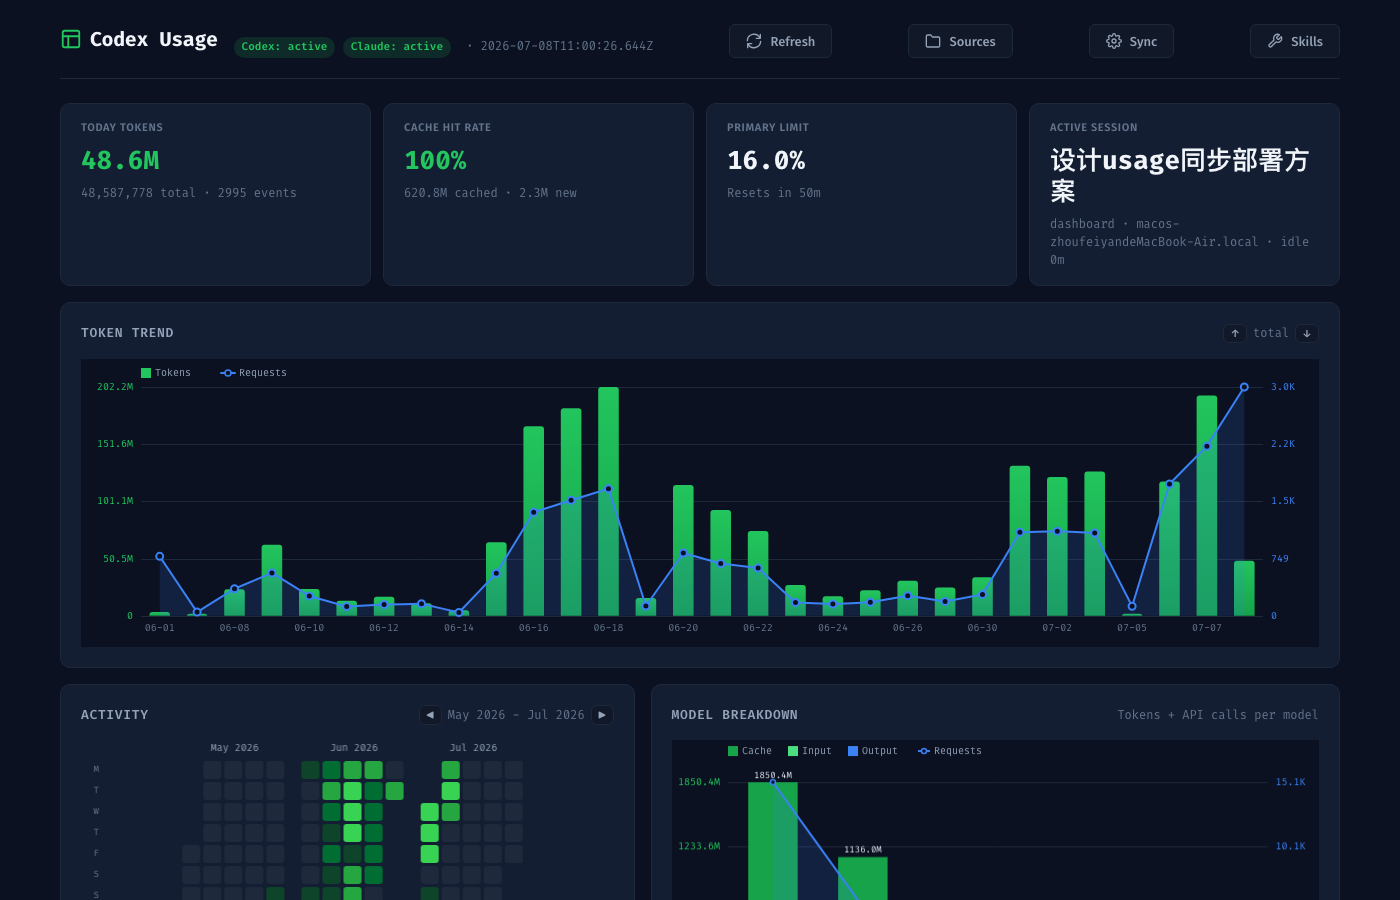
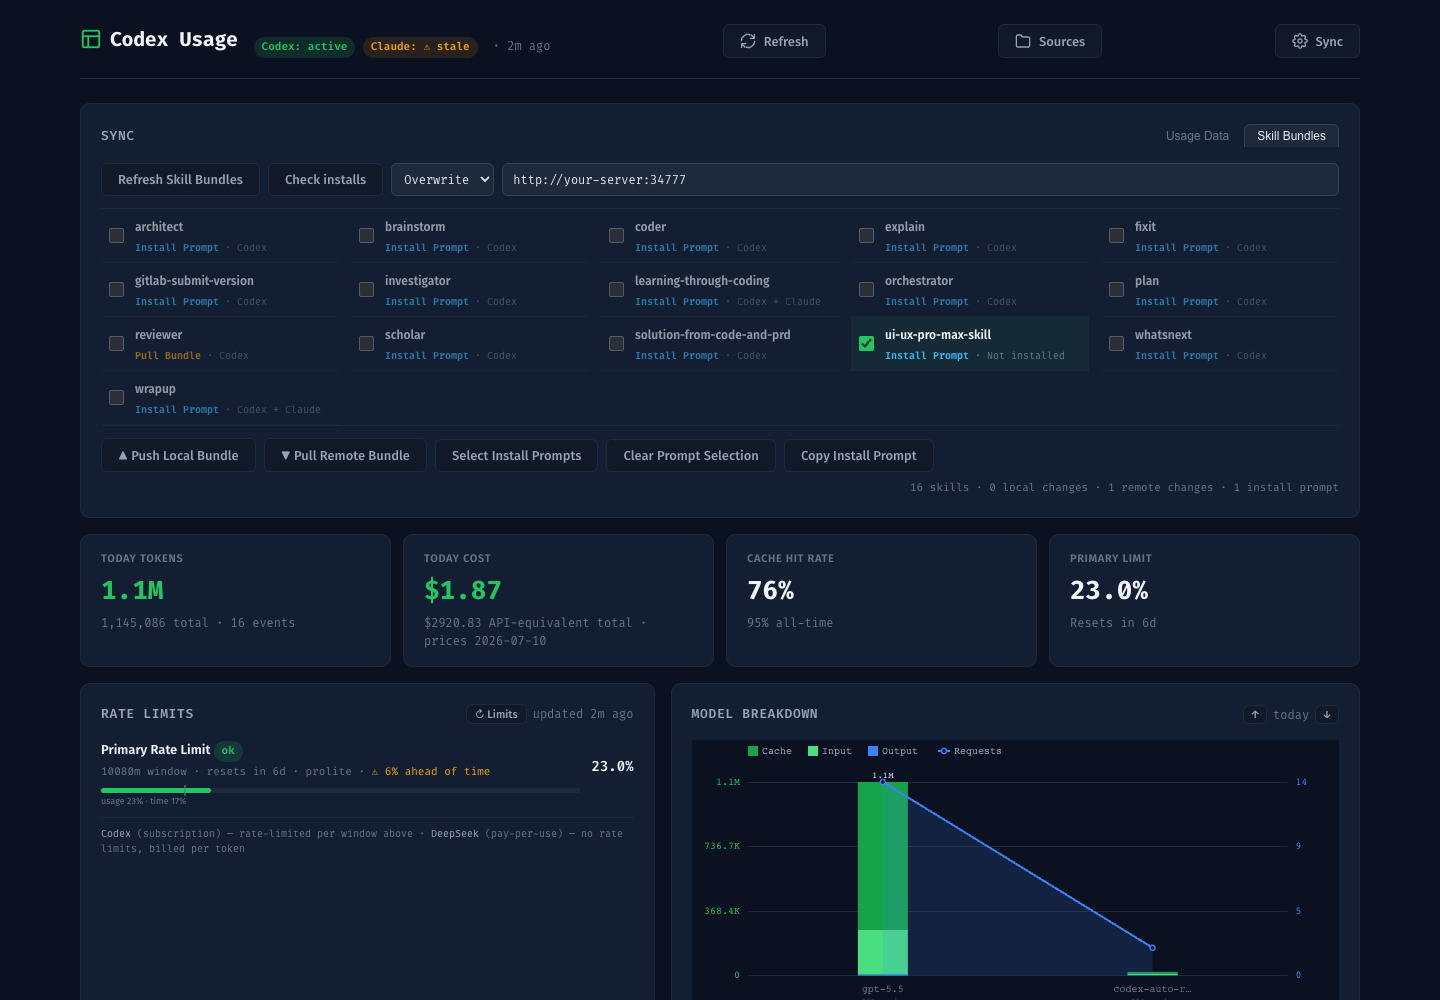
fix: refine skill bundle merge pull

diff --git a/test/skills-sync.test.js b/test/skills-sync.test.js
@@ -1,5 +1,5 @@
 import assert from "node:assert/strict";
-import { mkdtemp, mkdir, readFile, rm, writeFile } from "node:fs/promises";
+import { mkdtemp, mkdir, readFile, rm, stat, writeFile } from "node:fs/promises";
 import { tmpdir } from "node:os";
 import { join } from "node:path";
 import test from "node:test";
@@ -231,16 +231,27 @@ test("merge strategy writes bundle files without deleting local extras", async (
   t.after(() => rm(root, { recursive: true, force: true }));
   await mkdir(join(root, "common"), { recursive: true });
   await writeFile(join(root, "common", "old.md"), "# Old\n", "utf8");
+  await writeFile(join(root, "common", "same.md"), "# Same\n", "utf8");
+  const sameBefore = (await stat(join(root, "common", "same.md"))).mtimeMs;
 
   const plan = await planSkillBundleApply({
-    files: [{ path: "common/reviewer.md", content: "# Reviewer\n" }],
+    files: [
+      { path: "common/reviewer.md", content: "# Reviewer\n" },
+      { path: "common/same.md", content: "# Same\n" },
+    ],
   }, root, { strategy: "merge" });
 
   assert.equal(plan.summary.remove, 0);
+  assert.equal(plan.summary.add, 1);
+  assert.equal(plan.summary.unchanged, 1);
   await applySkillBundleToDir({
-    files: [{ path: "common/reviewer.md", content: "# Reviewer\n" }],
+    files: [
+      { path: "common/reviewer.md", content: "# Reviewer\n" },
+      { path: "common/same.md", content: "# Same\n" },
+    ],
   }, root, { strategy: "merge" });
 
   assert.equal(await readFile(join(root, "common", "old.md"), "utf8"), "# Old\n");
   assert.equal(await readFile(join(root, "common", "reviewer.md"), "utf8"), "# Reviewer\n");
+  assert.equal((await stat(join(root, "common", "same.md"))).mtimeMs, sameBefore);
 });

diff --git a/public/app.js b/public/app.js
@@ -1865,12 +1865,16 @@ function formatPlanSample(paths = [], max = 6) {
 
 function buildSkillPullConfirm(plan) {
   const summary = plan?.summary || {};
+  const strategy = plan?.strategy || "overwrite";
   const lines = [
-    `Apply remote skill bundle with ${plan?.strategy || "overwrite"} strategy?`,
-    `Add ${summary.add || 0}, update ${summary.update || 0}, remove ${summary.remove || 0}, unchanged ${summary.unchanged || 0}.`,
+    strategy === "merge"
+      ? "Merge remote skill bundle changes into the local source directory?"
+      : "Overwrite the local source directory with the remote skill bundle?",
+    `Add ${summary.add || 0}, overwrite ${summary.update || 0}, remove ${summary.remove || 0}, unchanged ${summary.unchanged || 0}.`,
   ];
+  if (summary.add) lines.push(`Add: ${formatPlanSample(plan.add || [])}`);
+  if (summary.update) lines.push(`Overwrite: ${formatPlanSample(plan.update || [])}`);
   if (summary.remove) lines.push(`Remove: ${formatPlanSample(plan.remove || [])}`);
-  if (summary.update) lines.push(`Update: ${formatPlanSample(plan.update || [])}`);
   lines.push("Continue?");
   return lines.join("\n");
 }
@@ -2081,9 +2085,13 @@ async function pullRemoteSkillBundle(serverUrl, strategy) {
   const preview = await previewRes.json();
   if (!preview.plan) throw new Error(preview.results?.find((r) => !r.ok)?.error || "Cannot preview skill pull");
   const summary = preview.plan.summary || {};
-  const needsConfirm = strategy === "overwrite" && ((summary.remove || 0) > 0 || (summary.update || 0) > 0);
+  const needsConfirm = (summary.add || 0) > 0 || (summary.update || 0) > 0 || (summary.remove || 0) > 0;
   if (needsConfirm && !window.confirm(buildSkillPullConfirm(preview.plan))) {
     $("skillSyncSummary").textContent = "Pull cancelled";
+    return false;
+  }
+  if (!needsConfirm) {
+    toast("Remote bundle already matches local source files", "success");
     return false;
   }
 

diff --git a/src/skills-sync.js b/src/skills-sync.js
@@ -346,9 +346,11 @@ export async function planSkillBundleApply(bundle, dirPath, options = {}) {
 export async function applySkillBundleToDir(bundle, dirPath, options = {}) {
   if (!bundle?.files || !Array.isArray(bundle.files)) throw new Error("Invalid skill bundle payload");
   const strategy = normalizeApplyStrategy(options.strategy);
+  const plan = await planSkillBundleApply(bundle, dirPath, { strategy });
   const expanded = expandHome(dirPath);
   await mkdir(expanded, { recursive: true });
   const incomingPaths = new Set(bundle.files.map((file) => safeBundlePath(file.path)));
+  const writePaths = new Set([...plan.add, ...plan.update]);
 
   async function removeOrphans(directory) {
     const entries = (await readdir(directory, { withFileTypes: true })).sort((a, b) => a.name.localeCompare(b.name));
@@ -368,6 +370,7 @@ export async function applySkillBundleToDir(bundle, dirPath, options = {}) {
   if (strategy === "overwrite") await removeOrphans(expanded);
   for (const file of bundle.files) {
     const relPath = safeBundlePath(file.path);
+    if (!writePaths.has(relPath)) continue;
     const destination = join(expanded, relPath);
     await mkdir(dirname(destination), { recursive: true });
     await writeFile(destination, String(file.content ?? "").trimEnd() + "\n", "utf8");

diff --git a/README.md b/README.md
@@ -217,7 +217,7 @@ node src/cli.js register --path ~/agent-skills --type skills --label "Shared Ski
 - 比较本地、远端和已安装的技能状态。
 - 使用 `Push Local Bundle` 将完整本地 skill source bundle 推送到远端。
 - 使用 `Pull Remote Bundle` 先读取完整远端 bundle、预览本地差异，再拉取到本地技能源目录。
-- Pull 支持 `Overwrite` / `Merge`：`Overwrite` 会让本地技能源目录匹配远端 bundle，执行前会预览新增、更新和删除；`Merge` 只写入远端 bundle 内文件并保留本地额外文件。
+- Pull 支持 `Overwrite` / `Merge`，两者执行前都会预览新增和覆盖项：`Merge` 只应用远端相对本地的新增/更新差异并保留本地额外文件；`Overwrite` 会让本地技能源目录匹配远端 bundle，因此还会预览并删除本地多出来的文件。
 - 勾选列表项只用于 `Copy Install Prompt`，让 Codex 按 `SKILL_BUNDLE.md` 规则安装或更新选中的本地技能；已安装的技能也可以勾选生成 prompt。
 
 ### Skill / Plugin 同步设计草案
@@ -226,8 +226,8 @@ node src/cli.js register --path ~/agent-skills --type skills --label "Shared Ski
 
 - **资源类型**：`Skill` 和 `Plugin` 分开选择、分开展示状态、分开执行同步。
 - **同步方向**：`Push` 和 `Pull` 都应显式选择方向，不把方向隐藏在同一个按钮里。
-- **应用策略**：Pull 已支持 `Merge` 和 `Overwrite`。`Merge` 表示保留目标端额外文件，只写入 bundle 内文件；`Overwrite` 表示目标端目录应与 bundle 精确匹配。
-- **确认边界**：Pull `Overwrite` 执行前会展示将新增、更新和删除的文件摘要，并要求确认。
+- **应用策略**：Pull 已支持 `Merge` 和 `Overwrite`。`Merge` 表示只应用远端新增/更新差异并保留目标端额外文件；`Overwrite` 表示目标端目录应与远端 bundle 精确匹配。
+- **确认边界**：Pull `Merge` 和 `Overwrite` 执行前都会展示将新增和覆盖的文件摘要；`Overwrite` 还会展示将删除的本地文件，并要求确认。
 - **服务端能力**：远端 API 需要声明支持哪些资源类型和策略，前端只展示服务端明确支持的动作。
 - **冲突处理**：当 skill/plugin 名称不同但功能重叠时，不能自动合并或覆盖，应在生成 prompt 或执行计划中报告冲突并等待人工选择。
 